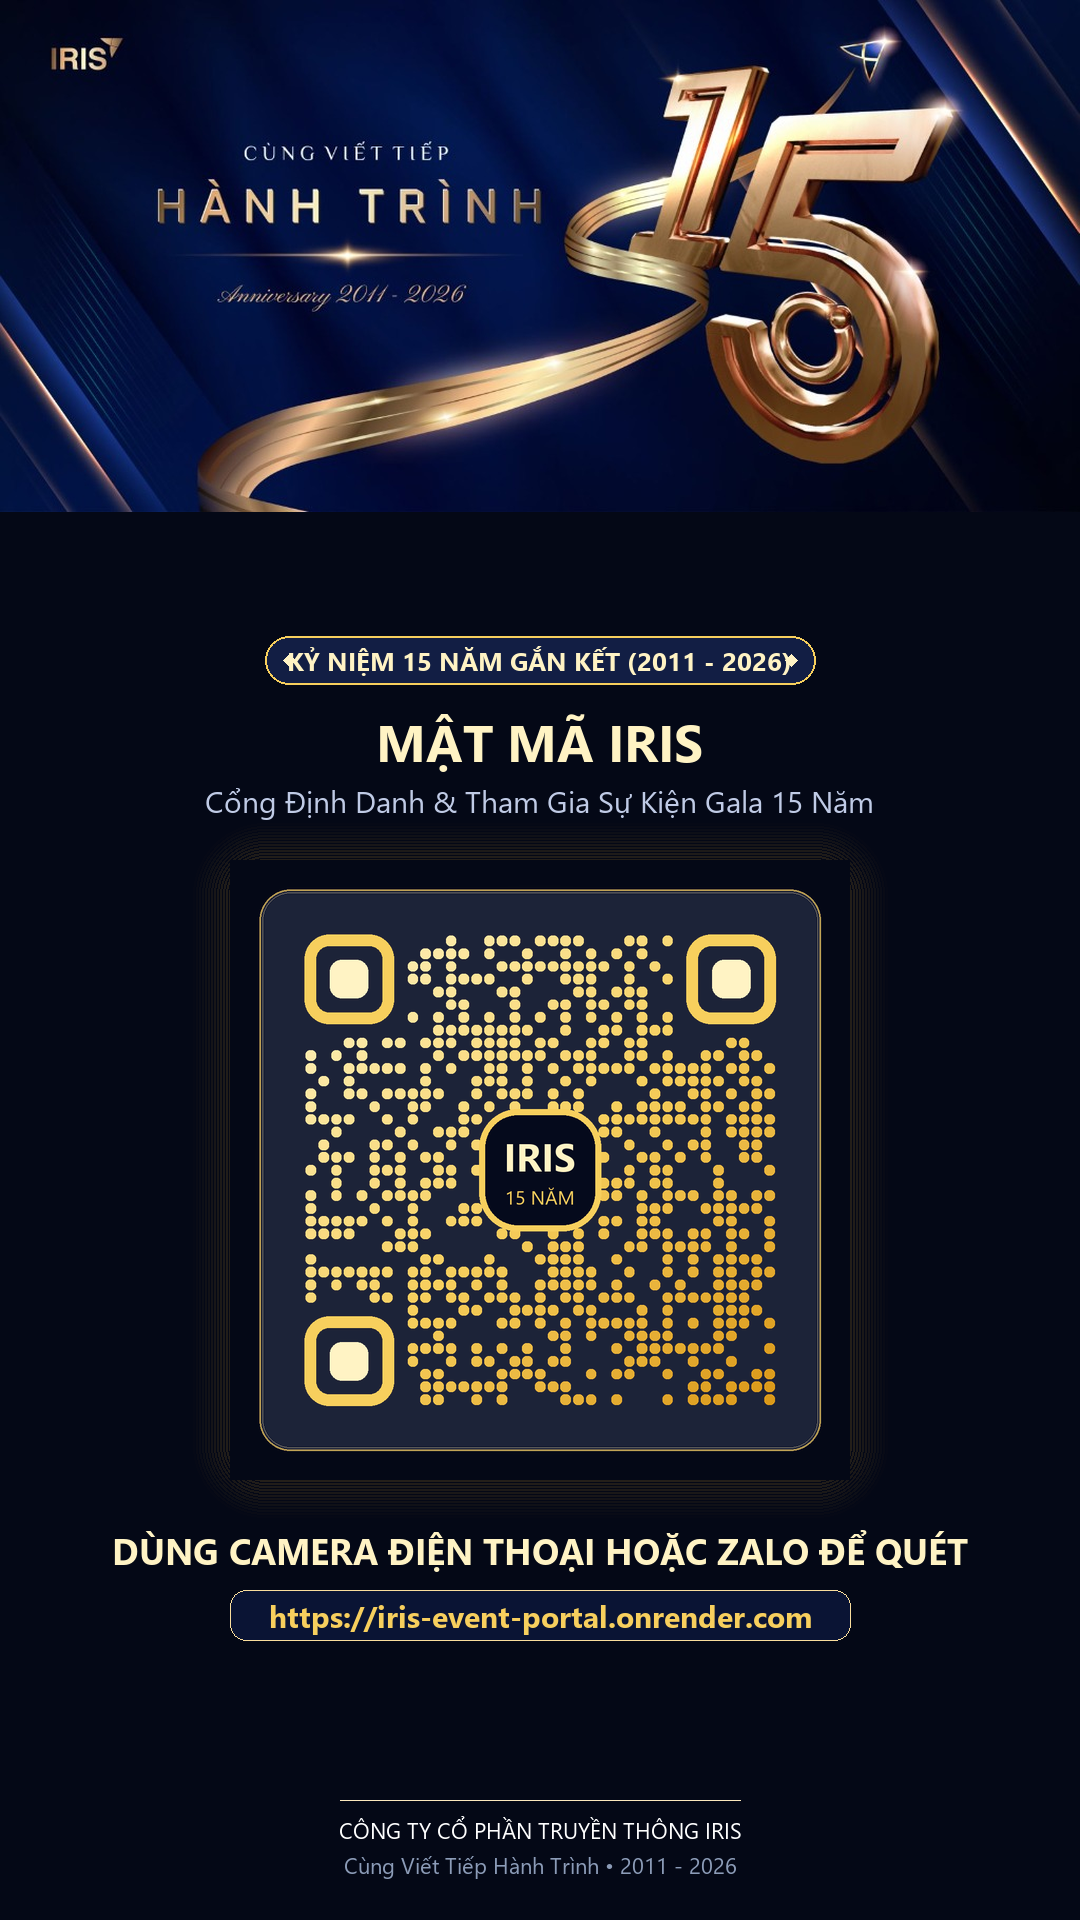
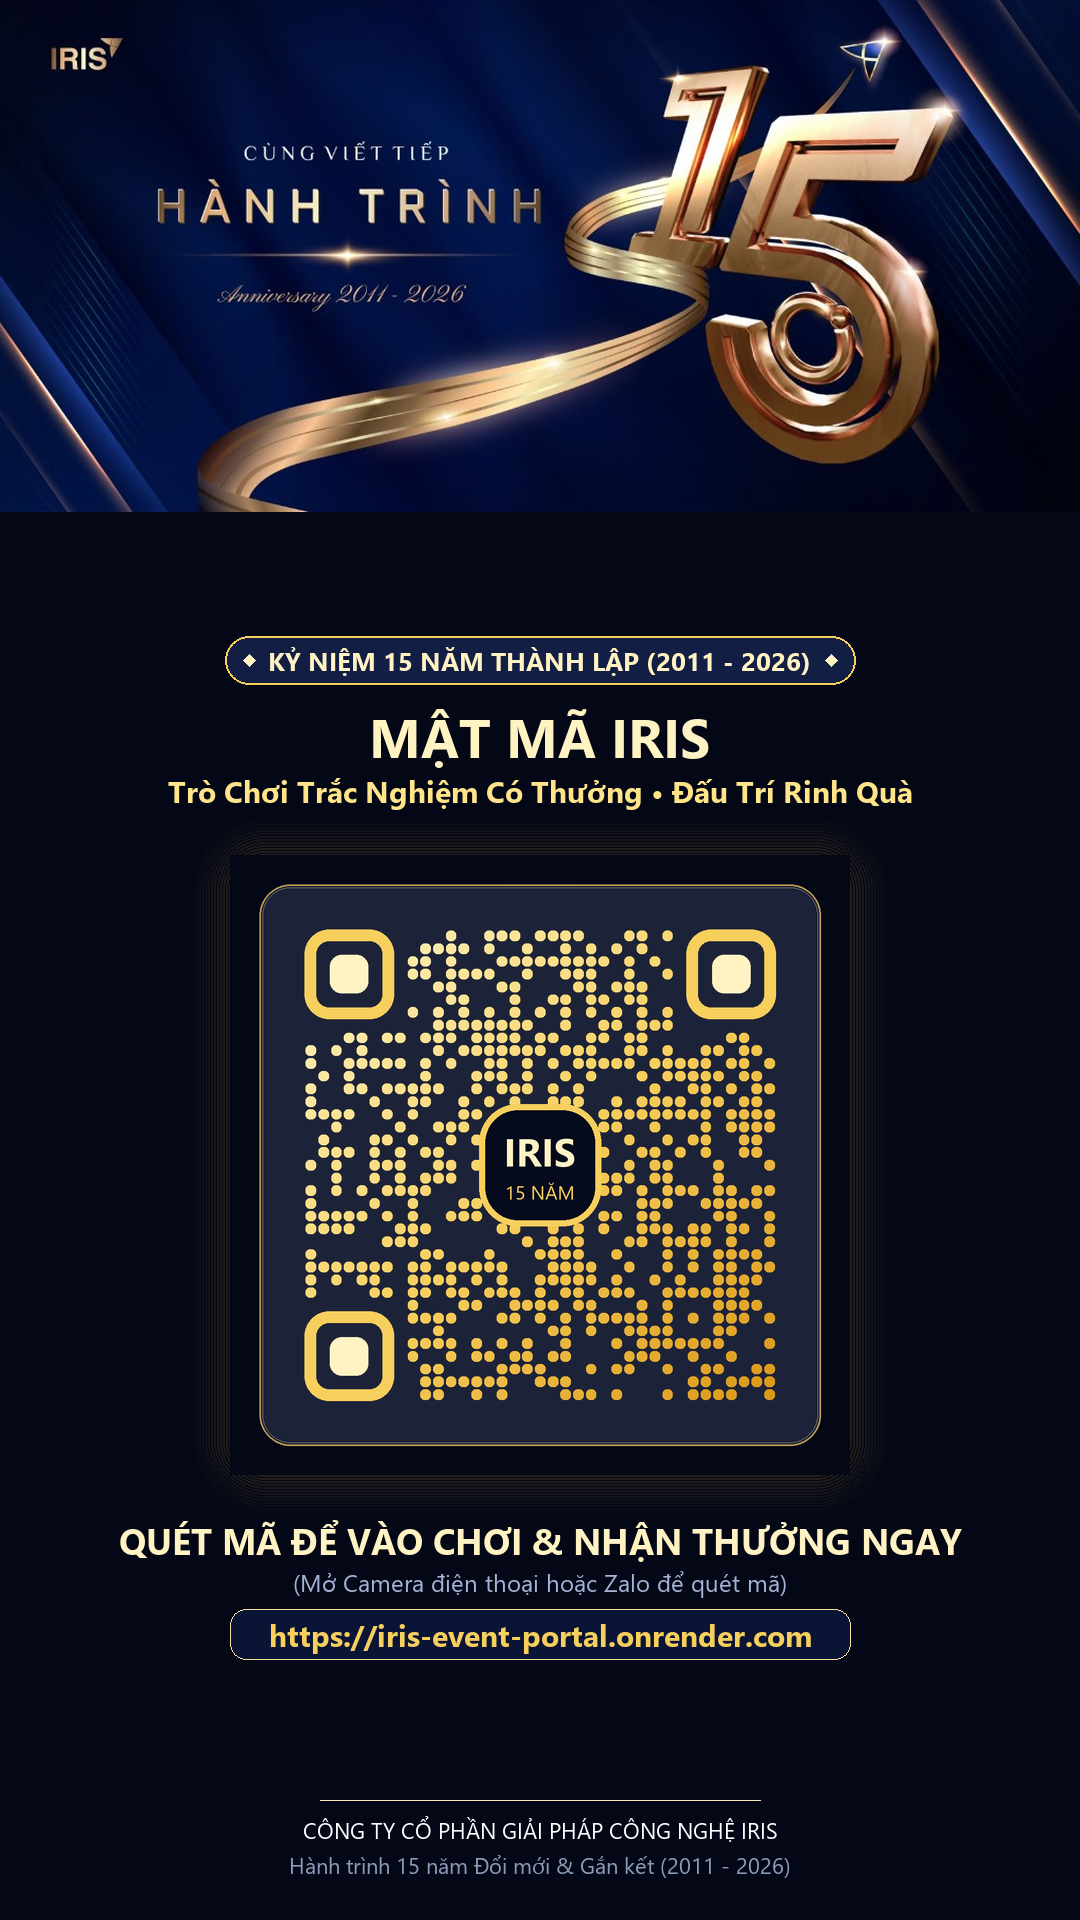
hot fix config

diff --git a/js/app.js b/js/app.js
@@ -459,10 +459,10 @@
     const payload = {
       Username: emp.username,
       UserProfileAttribute: {
-        FullName: emp.fullname,
+        FullName: emp.username, // Sử dụng Nickname để BXH hiển thị nickname thay vì họ tên thật
         Department: emp.department,
         ClientName: config.CLIENT_NAME || 'Ứng dụng sự kiện IRIS 15 Năm',
-        OrgName: config.ORG_NAME || 'Công ty cổ phần truyền thông IRIS'
+        OrgName: config.ORG_NAME || 'Công ty cổ phần giải pháp công nghệ IRIS'
       },
       ClientID: config.CLIENT_ID || 'iris_app'
     };

diff --git a/scripts/build-config.js b/scripts/build-config.js
@@ -44,7 +44,7 @@ if (!secretKey || !ivKey) {
 const config = {
   PORTAL_URL: process.env.PORTAL_URL || 'https://gamezone.minigames.vn/portal/',
   PORTAL_DEV_URL: process.env.PORTAL_DEV_URL || 'https://gameportal-dev.anews.vn/',
-  DEFAULT_CAMPAIGN_ID: process.env.DEFAULT_CAMPAIGN_ID || '24',
+  DEFAULT_CAMPAIGN_ID: process.env.DEFAULT_CAMPAIGN_ID || '25',
   CLIENT_ID: process.env.CLIENT_ID || 'iris_app',
   CLIENT_NAME: process.env.CLIENT_NAME || 'Ứng dụng sự kiện IRIS 15 Năm',
   ORG_NAME: process.env.ORG_NAME || 'Công ty cổ phần giải pháp công nghệ IRIS',

diff --git a/index.html b/index.html
@@ -155,7 +155,7 @@
         <div class="ticket-sheen"></div>
         <div class="ticket-header">
           <div class="ticket-badge">
-            <span class="badge-sparkle">✦</span> VIP GALA PASS
+            <span class="badge-sparkle">✦</span> IRIS GAME PASS
           </div>
           <div class="ticket-serial" id="ticketSerial">ID: USERNAME</div>
         </div>

diff --git a/scripts/generate_luxury_qr.py b/scripts/generate_luxury_qr.py
@@ -207,9 +207,10 @@ def generate_luxury_standee(qr_img):
     # 2. Font chữ hệ thống
     try:
         font_badge = ImageFont.truetype("C:/Windows/Fonts/segoeuib.ttf", 26)
-        font_title = ImageFont.truetype("C:/Windows/Fonts/segoeuib.ttf", 52)
-        font_subtitle = ImageFont.truetype("C:/Windows/Fonts/segoeui.ttf", 30)
+        font_title = ImageFont.truetype("C:/Windows/Fonts/segoeuib.ttf", 54)
+        font_subtitle = ImageFont.truetype("C:/Windows/Fonts/segoeuib.ttf", 30)
         font_instruct = ImageFont.truetype("C:/Windows/Fonts/segoeuib.ttf", 36)
+        font_sub_instruct = ImageFont.truetype("C:/Windows/Fonts/segoeui.ttf", 24)
         font_url = ImageFont.truetype("C:/Windows/Fonts/segoeuib.ttf", 30)
         font_footer = ImageFont.truetype("C:/Windows/Fonts/segoeui.ttf", 22)
     except Exception:
@@ -217,13 +218,14 @@ def generate_luxury_standee(qr_img):
         font_title = ImageFont.load_default()
         font_subtitle = ImageFont.load_default()
         font_instruct = ImageFont.load_default()
+        font_sub_instruct = ImageFont.load_default()
         font_url = ImageFont.load_default()
         font_footer = ImageFont.load_default()
 
-    # 3. Huy hiệu "KỶ NIỆM 15 NĂM GẮN KẾT"
+    # 3. Huy hiệu "KỶ NIỆM 15 NĂM THÀNH LẬP"
     badge_y = 660
-    badge_text = "KỶ NIỆM 15 NĂM GẮN KẾT (2011 - 2026)"
-    badge_half_w = 275
+    badge_text = "KỶ NIỆM 15 NĂM THÀNH LẬP (2011 - 2026)"
+    badge_half_w = 315
     draw.rounded_rectangle([width // 2 - badge_half_w, badge_y - 24, width // 2 + badge_half_w, badge_y + 24], radius=24, fill=(18, 30, 68), outline=COLOR_GOLD_MID, width=2)
     # Vẽ 2 viên kim cương vàng 2 bên
     diamond_offset = badge_half_w - 24
@@ -232,16 +234,16 @@ def generate_luxury_standee(qr_img):
         draw.polygon([(cx, badge_y - 6), (cx + 6, badge_y), (cx, badge_y + 6), (cx - 6, badge_y)], fill=COLOR_GOLD_LIGHT)
     draw.text((width // 2, badge_y), badge_text, fill=COLOR_GOLD_LIGHT, font=font_badge, anchor="mm")
 
-    # 4. Tiêu đề Cổng Sự Kiện
-    title_y = 740
+    # 4. Tiêu đề Trò Chơi Trắc Nghiệm Có Thưởng
+    title_y = 735
     draw.text((width // 2, title_y), "MẬT MÃ IRIS", fill=COLOR_GOLD_LIGHT, font=font_title, anchor="mm")
-    draw.text((width // 2, title_y + 60), "Cổng Định Danh & Tham Gia Sự Kiện Gala 15 Năm", fill=(192, 203, 230), font=font_subtitle, anchor="mm")
+    draw.text((width // 2, title_y + 55), "Trò Chơi Trắc Nghiệm Có Thưởng • Đấu Trí Rinh Quà", fill=(255, 228, 138), font=font_subtitle, anchor="mm")
 
     # 5. Dán Mã QR VIP đã tạo
     qr_target_size = 620
     qr_small = qr_img.resize((qr_target_size, qr_target_size), Image.Resampling.LANCZOS)
     qr_x = (width - qr_target_size) // 2
-    qr_y = 860
+    qr_y = 855
 
     # Khung hào quang phát sáng xung quanh QR Card
     glow_box = Image.new("RGBA", (width, height), (0, 0, 0, 0))
@@ -261,18 +263,21 @@ def generate_luxury_standee(qr_img):
     poster.paste(qr_small, (qr_x, qr_y), qr_small)
 
     # 6. Hướng dẫn quét & URL
-    instruct_y = qr_y + qr_target_size + 70
-    draw.text((width // 2, instruct_y), "DÙNG CAMERA ĐIỆN THOẠI HOẶC ZALO ĐỂ QUÉT", fill=COLOR_GOLD_LIGHT, font=font_instruct, anchor="mm")
+    instruct_y = qr_y + qr_target_size + 65
+    draw.text((width // 2, instruct_y), "QUÉT MÃ ĐỂ VÀO CHƠI & NHẬN THƯỞNG NGAY", fill=COLOR_GOLD_LIGHT, font=font_instruct, anchor="mm")
 
-    url_y = instruct_y + 65
+    sub_instruct_y = instruct_y + 42
+    draw.text((width // 2, sub_instruct_y), "(Mở Camera điện thoại hoặc Zalo để quét mã)", fill=(164, 179, 214), font=font_sub_instruct, anchor="mm")
+
+    url_y = sub_instruct_y + 52
     draw.rounded_rectangle([width // 2 - 310, url_y - 25, width // 2 + 310, url_y + 25], radius=16, fill=(10, 20, 52), outline=(245, 184, 46, 120), width=1)
     draw.text((width // 2, url_y), URL, fill=COLOR_GOLD_MID, font=font_url, anchor="mm")
 
     # 7. Footer thương hiệu
     footer_y = height - 90
-    draw.line([(width // 2 - 200, footer_y - 30), (width // 2 + 200, footer_y - 30)], fill=(245, 184, 46, 80), width=1)
-    draw.text((width // 2, footer_y), "CÔNG TY CỔ PHẦN TRUYỀN THÔNG IRIS", fill=(255, 255, 255), font=font_footer, anchor="mm")
-    draw.text((width // 2, footer_y + 35), "Cùng Viết Tiếp Hành Trình • 2011 - 2026", fill=(140, 156, 184), font=font_footer, anchor="mm")
+    draw.line([(width // 2 - 220, footer_y - 30), (width // 2 + 220, footer_y - 30)], fill=(245, 184, 46, 80), width=1)
+    draw.text((width // 2, footer_y), "CÔNG TY CỔ PHẦN GIẢI PHÁP CÔNG NGHỆ IRIS", fill=(255, 255, 255), font=font_footer, anchor="mm")
+    draw.text((width // 2, footer_y + 35), "Hành trình 15 năm Đổi mới & Gắn kết (2011 - 2026)", fill=(140, 156, 184), font=font_footer, anchor="mm")
 
     return poster
 
